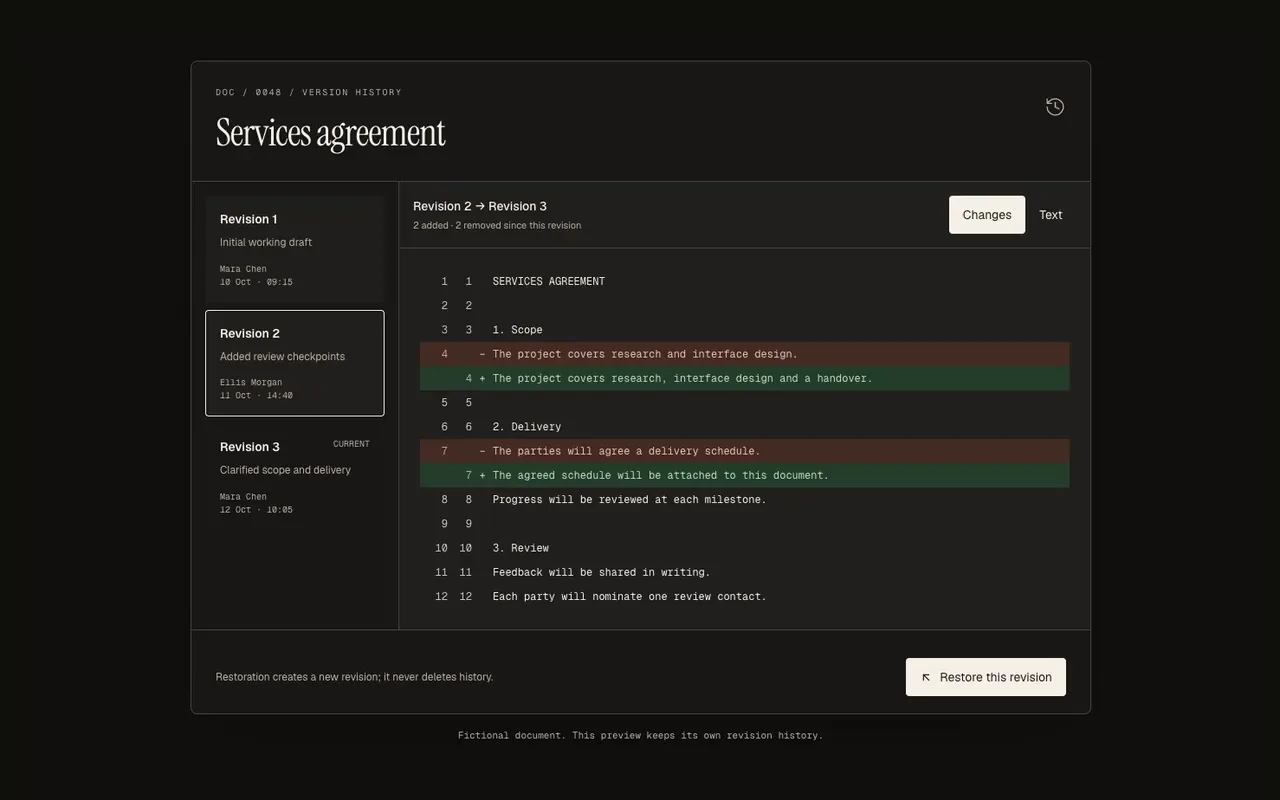
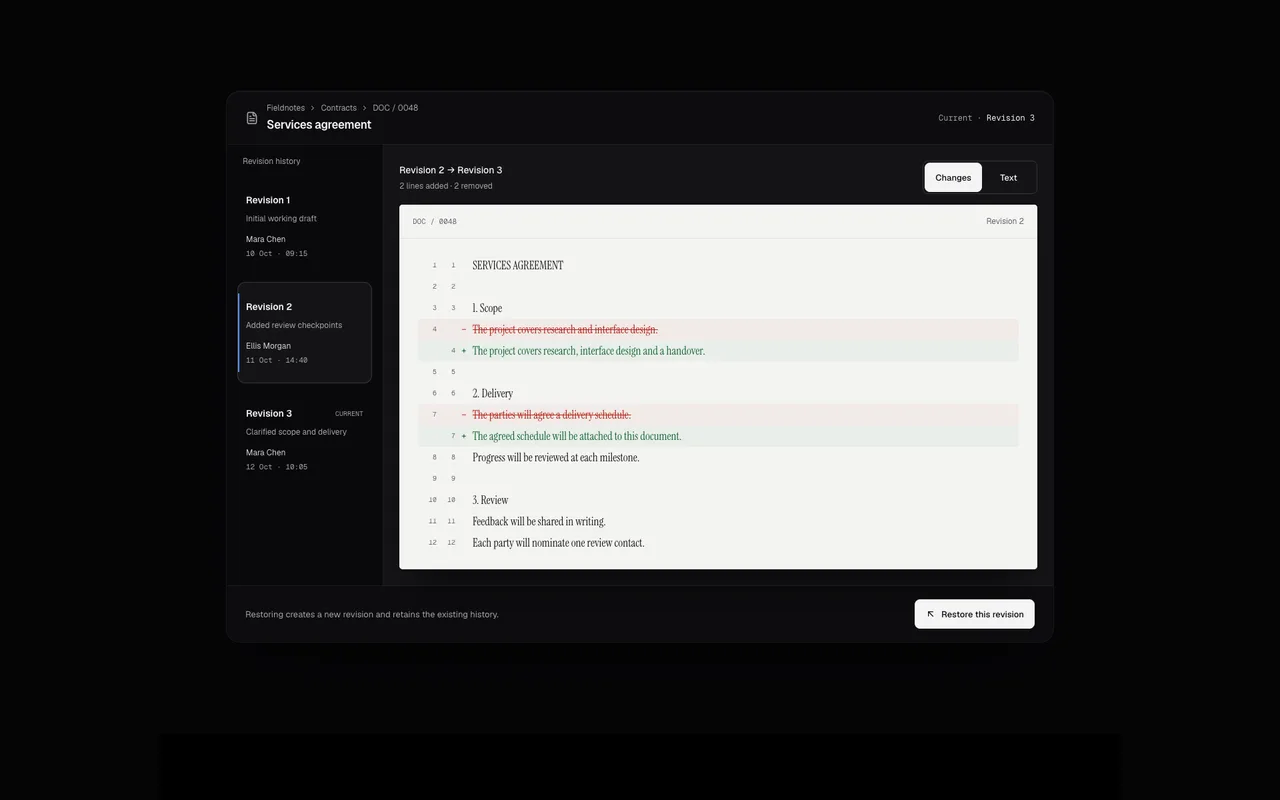
Verify legal history workflows and refreshed paper comparison poster

diff --git a/docs/review/HANDOFF_TASKS.md b/docs/review/HANDOFF_TASKS.md
@@ -251,6 +251,8 @@ and how to know it's done. Pick any of them up independently. Background, briefs
 
 - Task 8: the Return/Stock/Catalogue/Permissions batch and its regression fixes pass release verification. All 59 browser suites have passing results across the full run and focused reruns, including the complete 20-component mobile group and all metadata demos. Fresh component audits, strict registry, TypeScript and all 1,063 unit tests pass. The Worker dry run measures 2,655,633 bytes for the router, 57,063,324 for runtime and 4,754,984 for compressed maps, with all guards retained. The full evidence and unchanged optional-package diagnostics are recorded below.
 
+- Task 7: Version History is rebuilt around a revision rail and a numbered paper redline, with Changes/Text views and an inline confirmed restore. Its 29-mount source review and rewritten Next regression cover retained LCS boundaries, keyboard revisions, failed retry, copied snapshots, pending locks, focus before paint, invalid/empty histories, replaced replies and a real new current revision. Added-line ink is corrected after a measured 4.26:1 failure, with the original source and audit retained. Six widths, 16 state/default accessibility audits, entrance/state captures, three controls, official audit, both demo runners and measured 1,200px replay/poster pass. Strict registry, TypeScript and all 1,063 unit tests pass. Its film joins task 1; 31 components and 12 blocks remain in task 7.
+
 ## Ground rules (read first)
 
 - Two repos. Public: `richawo/Design-components-for-AI-agents` (this one). Pro: `richawo/Design-for-AI`, private, cloned
@@ -268,7 +270,7 @@ and how to know it's done. Pick any of them up independently. Background, briefs
 - Browser checks: `node scripts/check-component.mjs <slug> --base=http://localhost:3100 --no-video --keep-going`
   (screenshots at 1440/768/390 and every control flip; read the screenshots it writes to `test-results/check/<slug>/`).
 
-## 1. Re-record demo videos (120 components)
+## 1. Re-record demo videos (121 components)
 
 Every rebuilt component's poster is current but its catalogue film (`public/previews/<slug>.mp4`) still shows the old
 version. Record them one at a time on an otherwise idle machine; the recorder rejects frame stalls under load.
@@ -287,6 +289,7 @@ slug or per small group). Notes:
 
 Slugs:
 
+`legal-version-history`
 `editor-font-pairing`, `editor-keyframe-track`
 `editor-layer-stack`, `editor-spacing-inspector`, `editor-storyboard-strip`, `editor-version-restore`
 `three-exploded-assembly`, `three-material-inspector`, `agents-budget-guard`, `agents-dependency-board`
@@ -416,17 +419,16 @@ All nine parked rebuilds are shipped in both repos. Their original `_wip/<slug>`
 | finance-budget-variance | Completed 17 October: Next probe, dark/light accessibility, responsive and entrance/state captures, live demo and refreshed poster pass. |
 | finance-cashflow-dashboard | Completed 17 October: weekly balance and in/out bars, movable payments, independent pending saves, invalid-data guards, selected-week list geometry, Next probe/demo, both-theme accessibility, responsive/state/entrance captures and refreshed poster pass. |
 
-## 7. Continue the review (32 components, then 12 blocks)
+## 7. Continue the review (31 components, then 12 blocks)
 
-Same process as the 166 already done: hold each to the first ~100 components' standard. Briefs:
+Same process as the 167 already done: hold each to the first ~100 components' standard. Briefs:
 `docs/review/REVIEW_BRIEF.md`, `docs/review/SUITE_BRIEF.md` for industry components, suite languages in
 `docs/review/suites/`. Work newest first, about four components per batch, and verify each (build, tsc, tests,
 check-component, your own captures of states and mid-entrance frames, a refreshed poster, a rewritten pro-50 probe for
 industry components).
 
 - **Commerce** is reviewed. Keep `block-commerce-workspace` compatible with its rebuilt parts.
-- **Others**: legal-version-history (`suites/legal.md`), hr-capacity-planner (`suites/hr.md`),
-  data-query-builder.
+- **Others**: hr-capacity-planner (`suites/hr.md`) and data-query-builder.
 - **Smaller components** (#151–179): chart-waterfall-bridge, content-release-notes, cards-event-ticket,
   chart-slope-comparison, chart-bullet-targets, media-story-deck, devtools-request-waterfall, devtools-json-inspector,
   media-before-after, data-kanban-compact, data-file-explorer, forms-preference-center, date-week-agenda,

diff --git a/docs/review/STATUS.md b/docs/review/STATUS.md
@@ -1,6 +1,6 @@
 # Review status
 
-166 components are rebuilt (or, for a few, polished), verified and committed. For each: whether its demo video
+167 components are rebuilt (or, for a few, polished), verified and committed. For each: whether its demo video
 needs re-recording, whether its poster is current, and the state of its browser regression probe.
 
 - **Video**: `new` means `public/previews/<slug>.mp4` still shows the old version. Re-record serially on a quiet machine:
@@ -130,7 +130,7 @@ See [the handoff checkpoint](HANDOFF_TASKS.md#8-final-release-checks) for revisi
 | `saas-usage-policy` | new | current | rewritten, passes (warning thresholds and empty usage fixed) |
 | `saas-workspace-dashboard` | new | current | rewritten, passes |
 
-## Legal suite (8)
+## Legal suite (9)
 
 | Slug | Video | Poster | Probe |
 | --- | --- | --- | --- |
@@ -142,6 +142,7 @@ See [the handoff checkpoint](HANDOFF_TASKS.md#8-final-release-checks) for revisi
 | `legal-obligation-tracker` | new | current | rewritten, passes |
 | `legal-renewal-planner` | new | current | rewritten, passes |
 | `legal-signature-request` | new | current | rewritten, passes |
+| `legal-version-history` | new | current | Rebuilt revision rail and numbered paper redline; 29-mount source review and Next keyboard/LCS/retry/copied-snapshot/pending/focus/revision regression pass. Added-line ink is corrected after a retained 4.26:1 contrast failure. Six widths, 16 accessibility audits, entrance/state captures, three controls, official audit, both demo runners and measured 1,200px replay/poster pass. Strict registry, TypeScript and all 1,063 unit tests pass. |
 
 ## HR suite (8)
 
